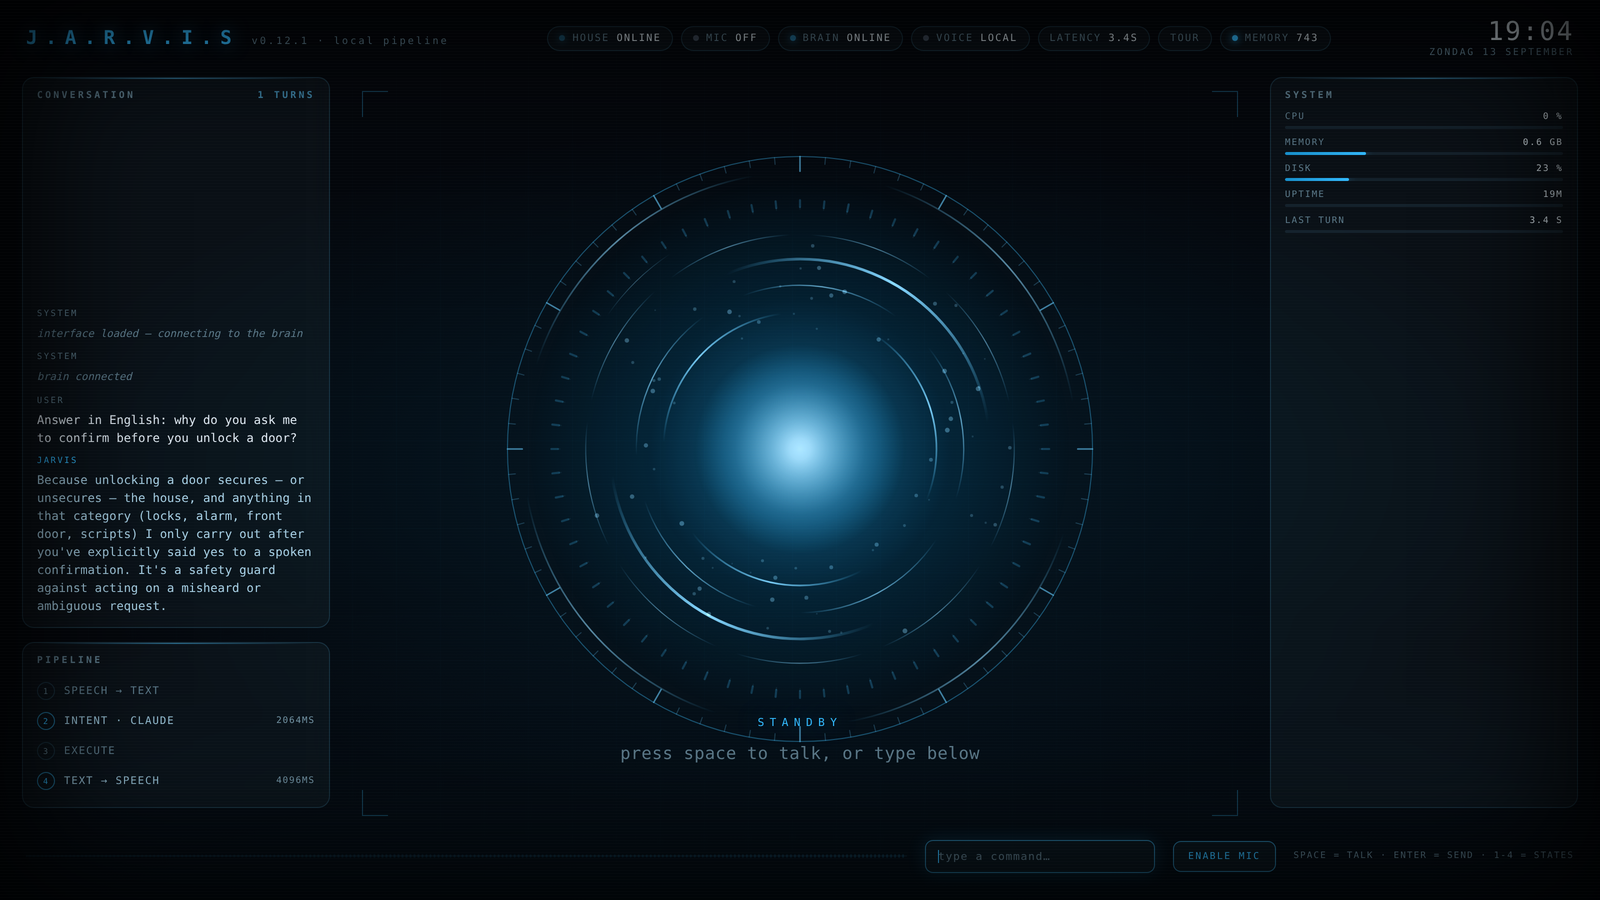
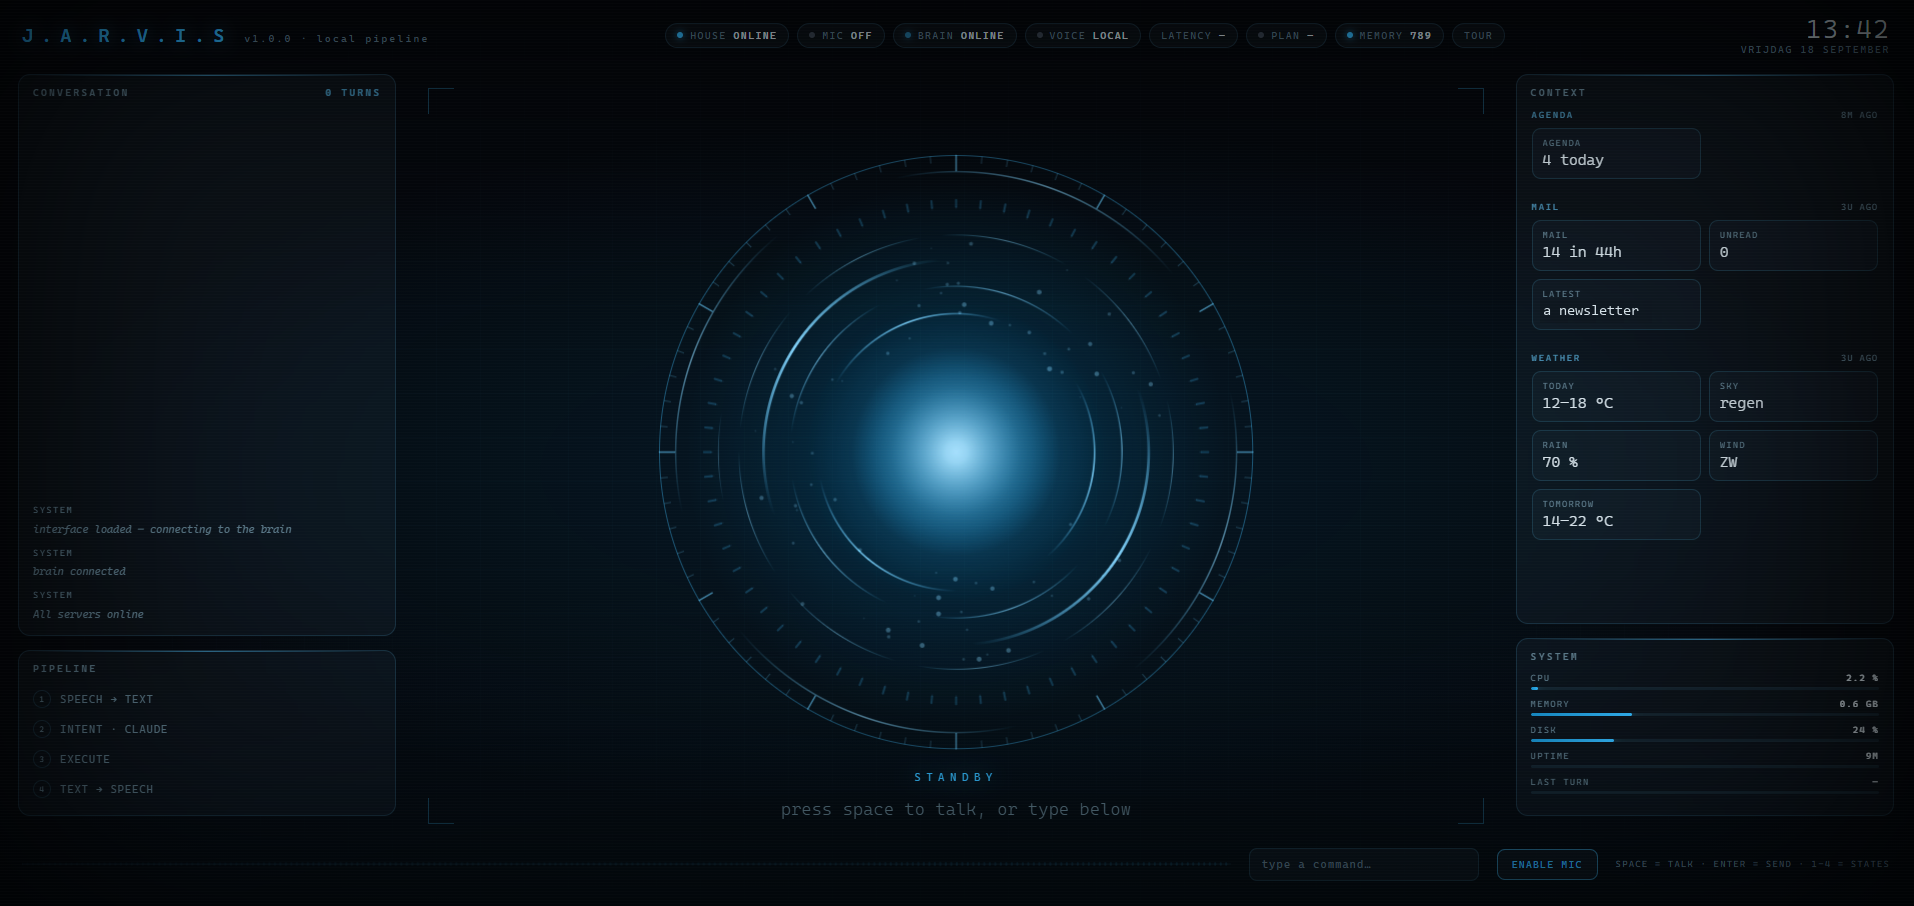
docs: the README says what the tree says (#2)
Two screenshots from 1.0.0 replace the one from 0.12.1: the HUD at rest with
the context panel filled, and the first step of the tour over a listening orb.
The prose around them was read against the code it describes and corrected
where the two had drifted: the pack contract lives in shared/src/pack.ts and
the loader reads it; a house needs seven methods, not six; the house map and
its three settings come with a house pack and not with core; hud/src holds an
entry point; the suite also runs on pull requests; and the release job and
the systemd unit templates are pointed at. No version moves for this.

diff --git a/shared/src/home.ts b/shared/src/home.ts
@@ -22,7 +22,7 @@
  * take a fortnight to become useful, rather than never arriving.
  */
 
-/** What an implementation can do beyond the required six methods. */
+/** What an implementation can do beyond the required seven methods. */
 export interface HomeCapabilities {
   /** Past states per entity. Buys a running start on behavioural baselines. */
   history: boolean;

diff --git a/README.md b/README.md
@@ -10,11 +10,12 @@ It was built for one house and is written to be built for another. The parts tha
 the persona, the seeds, the credentials, the tools that talk to systems only one person has — live
 outside this repository by design.
 
-![The JARVIS HUD answering a question](docs/images/hud.png)
+![The JARVIS HUD in standby](docs/images/hud.png)
 
-The screen after a turn: the transcript and the four stages of the pipeline on the left, the state of
-the house and the machine on the right, and in the middle the space where windows open when the
-assistant has something to show — a camera still, a chart, a note.
+The screen at rest: the transcript and the four stages of the pipeline on the left, the context
+panel on the right holding the latest readings of the agenda, the mail and the weather above the
+state of the machine, and in the middle the space where windows open when the assistant has
+something to show — a camera still, a chart, a note.
 
 ## Overview
 
@@ -57,7 +58,8 @@ repositories a deployment wants,
 in `config/packs.json`, and in each of those repositories a `pack.json` and an entry point
 exporting `configured()` — has this machine what the pack needs — and `create()`, which returns the
 MCP servers, the tools to pre-approve, and the paragraph of system prompt that describes them.
-`brain/src/packs/loader.ts` is the whole of the contract, comments included, and
+`shared/src/pack.ts` is the whole of the contract, comments included, `brain/src/packs/loader.ts`
+is what reads it, and
 [examples/pack](examples/pack) is that contract as a directory you can copy: one setting, one tool,
 one paragraph of prompt, and a README beside it for turning it into a repository of its own. It is
 built and tested with everything else here, so it is the smallest thing known to still load.
@@ -74,9 +76,9 @@ does not carry a paragraph about reading the mail, and does not offer a tool for
 
 Home Assistant is the only implementation shipped and stays the recommended one — it already speaks
 to a thousand integrations. But nothing above `HomeProvider` in `shared/src/home.ts` knows that.
-Six methods are required: what is here, what it reads, how to change it, and how to be told when it
-moves. Four more are optional and advertised through a `capabilities` record: history, long-term
-statistics, cameras, calendars.
+Seven methods are required: connect and close, what is here, what it reads, how to change it, how to
+be told when it moves, and the latest reading. Four capabilities are optional and advertised through
+a `capabilities` record: history, long-term statistics, cameras, calendars.
 
 What a house without them costs is measured rather than guessed. A provider with none of the four
 resolves the same watchlist, subscribes to the same live feed, fills the same buckets and builds the
@@ -87,8 +89,8 @@ assistant. There is a test that says so in those terms.
 ## What it can do
 
 **The house.** Answer from live state, with the attribute that actually carries the answer (a climate
-entity's `current_temperature` rather than `cool`), from history, or from the house map it already
-carries. Act on lights, blinds, climate, media and scenes immediately; locks, alarm, door openers,
+entity's `current_temperature` rather than `cool`), from history, or from the house map its house
+pack gives it. Act on lights, blinds, climate, media and scenes immediately; locks, alarm, door openers,
 scripts, buttons, the water heater and garage or gate covers only after a spoken yes in a later
 turn. A Jinja template tool is the escape hatch for everything the other tools do not cover.
 
@@ -153,14 +155,20 @@ in the page, not a conversation: no model is asked anything, so it works identic
 no house, no microphone and no API key, which is the machine most likely to need it. What it cannot
 show it leaves out rather than describes.
 
+![The first of the tour's seven steps](docs/images/hud-tour.png)
+
+The first step of the tour, over a HUD that is listening: the orb changes colour with what it is
+doing, and the card says what the space bar, Enter and the button at the bottom right are for.
+
 ## What it remembers, and how it learns
 
 Continuity is a memory layer, not a long context window. A conversation lasts twenty minutes or
 thirty turns and is then dropped; everything meant to survive that is written down. The store is one
 SQLite file with full-text search and a vector column.
 
-**In the prompt, every turn.** The persona, a small core of facts, a map of the house naming what a
-spoken question reaches for against a character budget, and up to eight *recipes*. Everything else is
+**In the prompt, every turn.** The persona, a small core of facts, a map of the house — when a house
+pack supplies one — naming what a spoken question reaches for against a character budget, and up to
+eight *recipes*. Everything else is
 looked up.
 
 **Volunteered, before a tool is called.** The question is embedded locally and the facts it already
@@ -252,7 +260,7 @@ than recomputed, and the diff that actually happened is checked against the same
 request exists. A change that touched a protected path is deleted rather than reviewed.
 
 Protected paths are not the risky-looking ones; they are the ones that move the boundaries: the
-house's confirmation guard, this machinery and its tests, `packs/` wholesale, `scripts/`,
+house's confirmation guard (it lives in a pack, so `packs/` covers it), this machinery and its tests, `scripts/`,
 `deploy/`, `.github/` and the dependency manifests. Removing the alarm's spoken confirmation is a
 one-line diff and is exactly the change that may never be small.
 
@@ -334,7 +342,8 @@ This is a TypeScript monorepo:
 - `hud/` — Browser front-end rendering the display, microphone capture, audio playback, and the
   canvas where the orb sits. Today that is one self-contained file, `hud/public/index.html`, with
   its styles and script inline: the page loads off the static server with nothing built. `hud/src/`
-  is the workspace that file gets taken apart into when it has earned it, and is empty until then.
+  is the workspace that file gets taken apart into when it has earned it, and holds one empty entry
+  point until then.
 - `shared/` — Types shared between brain and HUD: the websocket protocol, the house seam, the pack
   contract, the delegate seam.
 - `packs/*` — Where packs are installed, each one a checkout of its own and none of them tracked
@@ -398,7 +407,6 @@ capability is simply not offered.
 | `JARVIS_GITHUB_REPO`, `GITHUB_TOKEN_JARVIS` | Repository and fine-grained token used to open and merge pull requests. Contents and pull-requests write on that one repository, nothing else. Without the token everything up to the push still works. |
 | `JARVIS_COMMIT_EMAIL` | The address a self-written commit is authored with. Unset, git's own configuration decides. |
 | `JARVIS_RUNNER_TOKEN` | The bearer token a machine running delegated jobs reports quiet panes with, at `POST /runner/report`. Empty, the route does not exist at all: a delegated slot then stays open until somebody closes it by hand, which is the behaviour of a deployment that delegates nowhere. |
-| `JARVIS_HOUSE_NOISE`, `JARVIS_HOUSE_NOT_A_ROOM`, `JARVIS_HOUSE_VEHICLE` | Which switch labels the house map leaves out, which thermometers are not measuring a room, and which entities are a vehicle rather than the building. Case-insensitive regular expressions; the first two have generic defaults worth replacing, the third is empty. |
 | `JARVIS_WATCH_IGNORE_PLATFORMS` | Integrations the watcher ignores outright, as the entity registry spells them, comma-separated. A vehicle integration and outdoor cameras are the usual entries: a sleeping car reports every door unavailable, and rain on a lens is motion. Empty watches everything. |
 | `CLAUDE_CODE_OAUTH_TOKEN` | Subscription OAuth token from `claude setup-token`. Never set `ANTHROPIC_API_KEY` in the same environment; the SDK prefers it and billing switches to per-token. |
 
@@ -468,7 +476,7 @@ its origin has never seen, are each reported and left exactly as they were.
 
 ## Install and run
 
-Node 22.18 or later, npm 10 or later. Not merely "Node 22", and the exact number matters
+Node 22.18 or later. Not merely "Node 22", and the exact number matters
 twice: `node:sqlite` needs a flag before 22.13 and the service will not start without it,
 and the test suite runs its TypeScript directly, which needs the type stripping that is only
 on by default from 22.18. An older 22 installs and builds, then fails every test file with
@@ -557,8 +565,10 @@ what the assistant may change about itself, configuration parsing, the static fi
 handling, the rollup, baselines, rules and reconciliation of the proactive side, and the memory
 store. Anything that needs the network or a model is deliberately not covered.
 
-The same suite runs on GitHub for every push to `main` (`.github/workflows/fat.yml`), alongside a
-check that no household fact reached the tree (`.github/workflows/no-house-facts.yml`). That second
+The same suite runs on GitHub for every push to `main` and every pull request
+(`.github/workflows/fat.yml`), alongside a check that no household fact reached the tree
+(`.github/workflows/no-house-facts.yml`) and, on `main`, the release job described under
+[Deploying](#deploying) (`.github/workflows/release.yml`). That second
 one is the owner's gate and runs only in the origin repository: it needs a `DENYLIST_EXTRA` secret
 holding one household's own words, refuses to run without it, and a fork has neither the secret nor
 anything to keep out. Anyone who wants the same gate can run `scripts/check-no-house-facts.sh`
@@ -576,6 +586,12 @@ A `post-receive` hook runs `scripts/deploy.sh`, which installs dependencies if t
 builds, runs the acceptance suite, type-checks the tests, restarts `jarvis-brain` and only then
 forwards the commit onward. If any step fails the checkout is rolled back and the service is left
 alone, so what is running is always something that passed.
+
+What the forge does do is release. Every version that lands on `main` with a green suite becomes a
+tag `v<version>` and a GitHub release whose notes are that version's section of `CHANGELOG.md`
+(`.github/workflows/release.yml`); a push that leaves the version alone releases nothing. A host can
+follow a tag rather than the tip of `main` — `jarvis-deploy v1.1.0` — and the tag before it is the
+rollback.
 
 Setting this up on a fresh host takes two things: `git config receive.denyCurrentBranch updateInstead`
 so a push can update the checked-out branch, and a `.git/hooks/post-receive` that copies
@@ -596,6 +612,8 @@ purpose. A changed persona has to reach the host some other way.
   commit, and what is enforced in code rather than in prose.
 - [examples/pack](examples/pack) — the smallest pack that loads, and what to change to make it
   yours.
+- [deploy/README.md](deploy/README.md) — the systemd units, what each one owns and how they are
+  installed.
 - The decision log and the roadmap for the watching side are not published: both were written
   against one household's own house, down to its devices, its rooms and its counts.
 - [CHANGELOG.md](CHANGELOG.md) — what changed, release by release.
